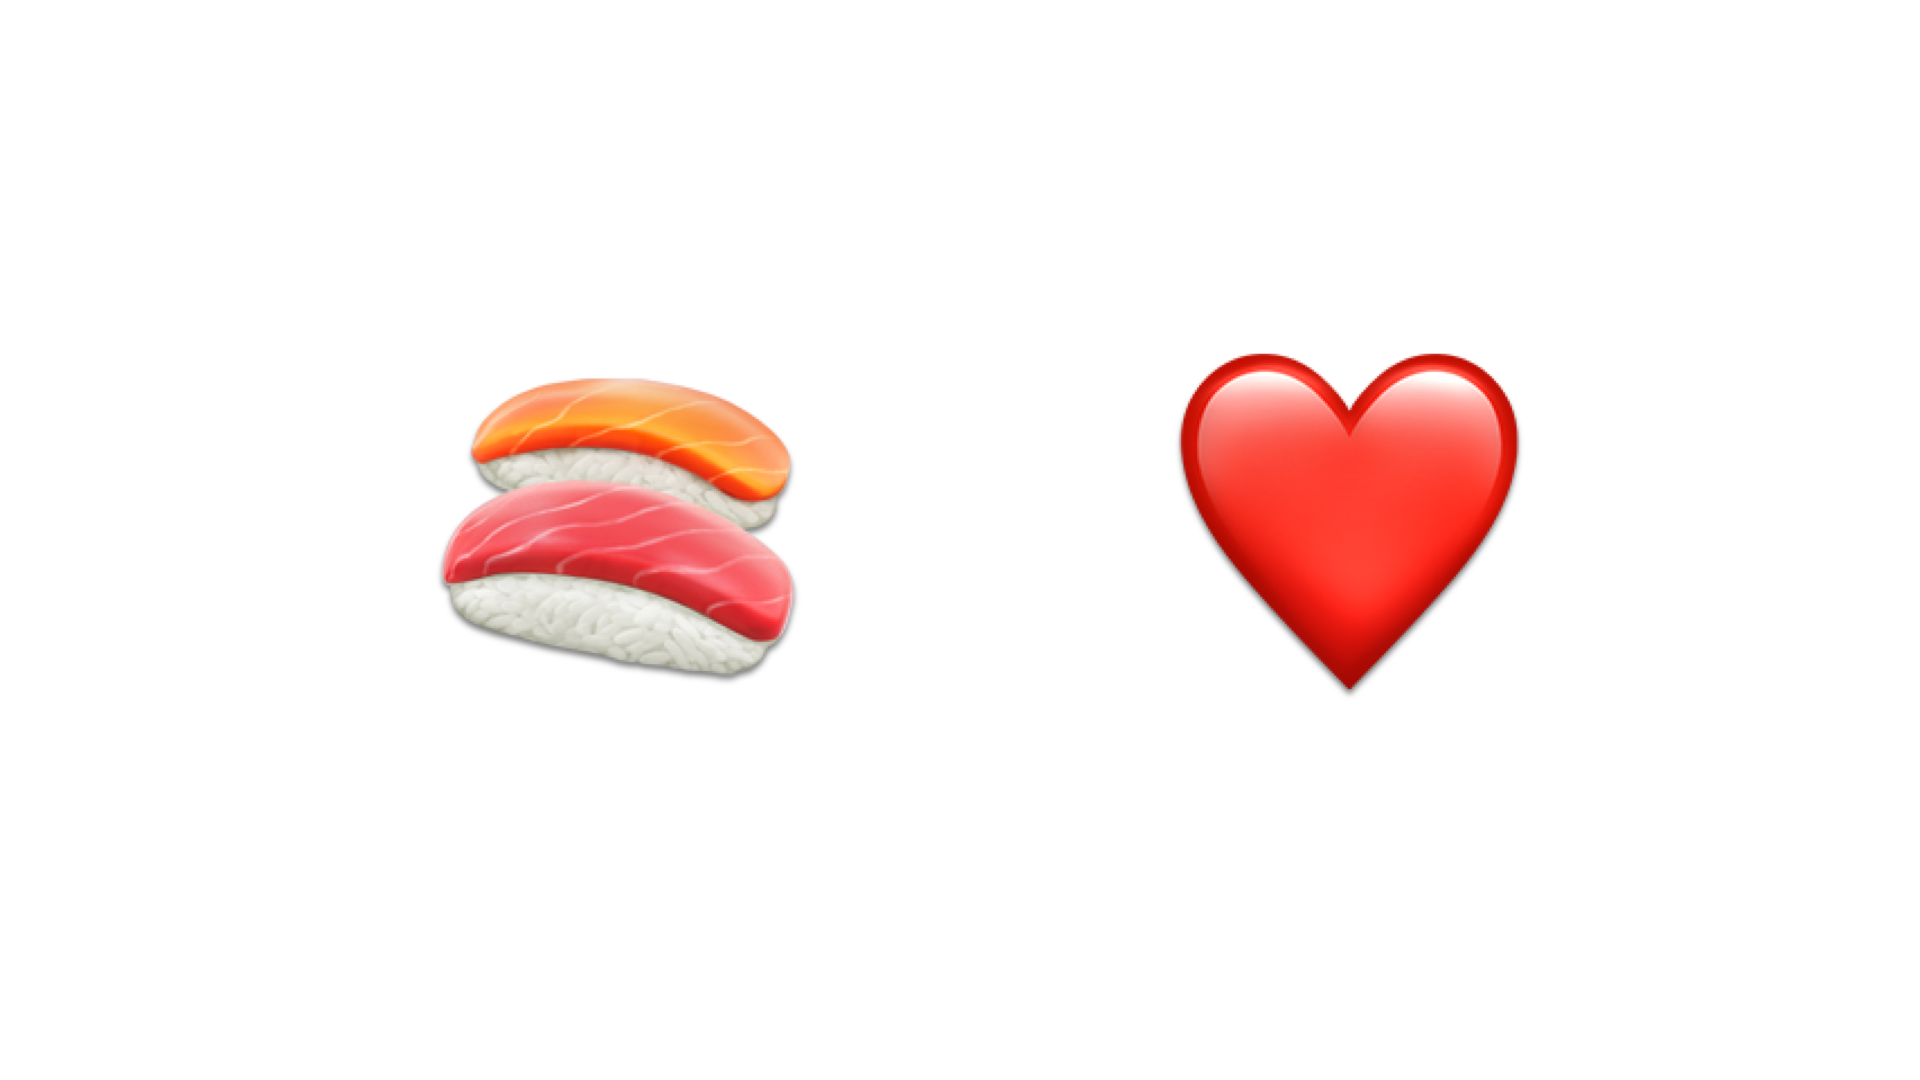
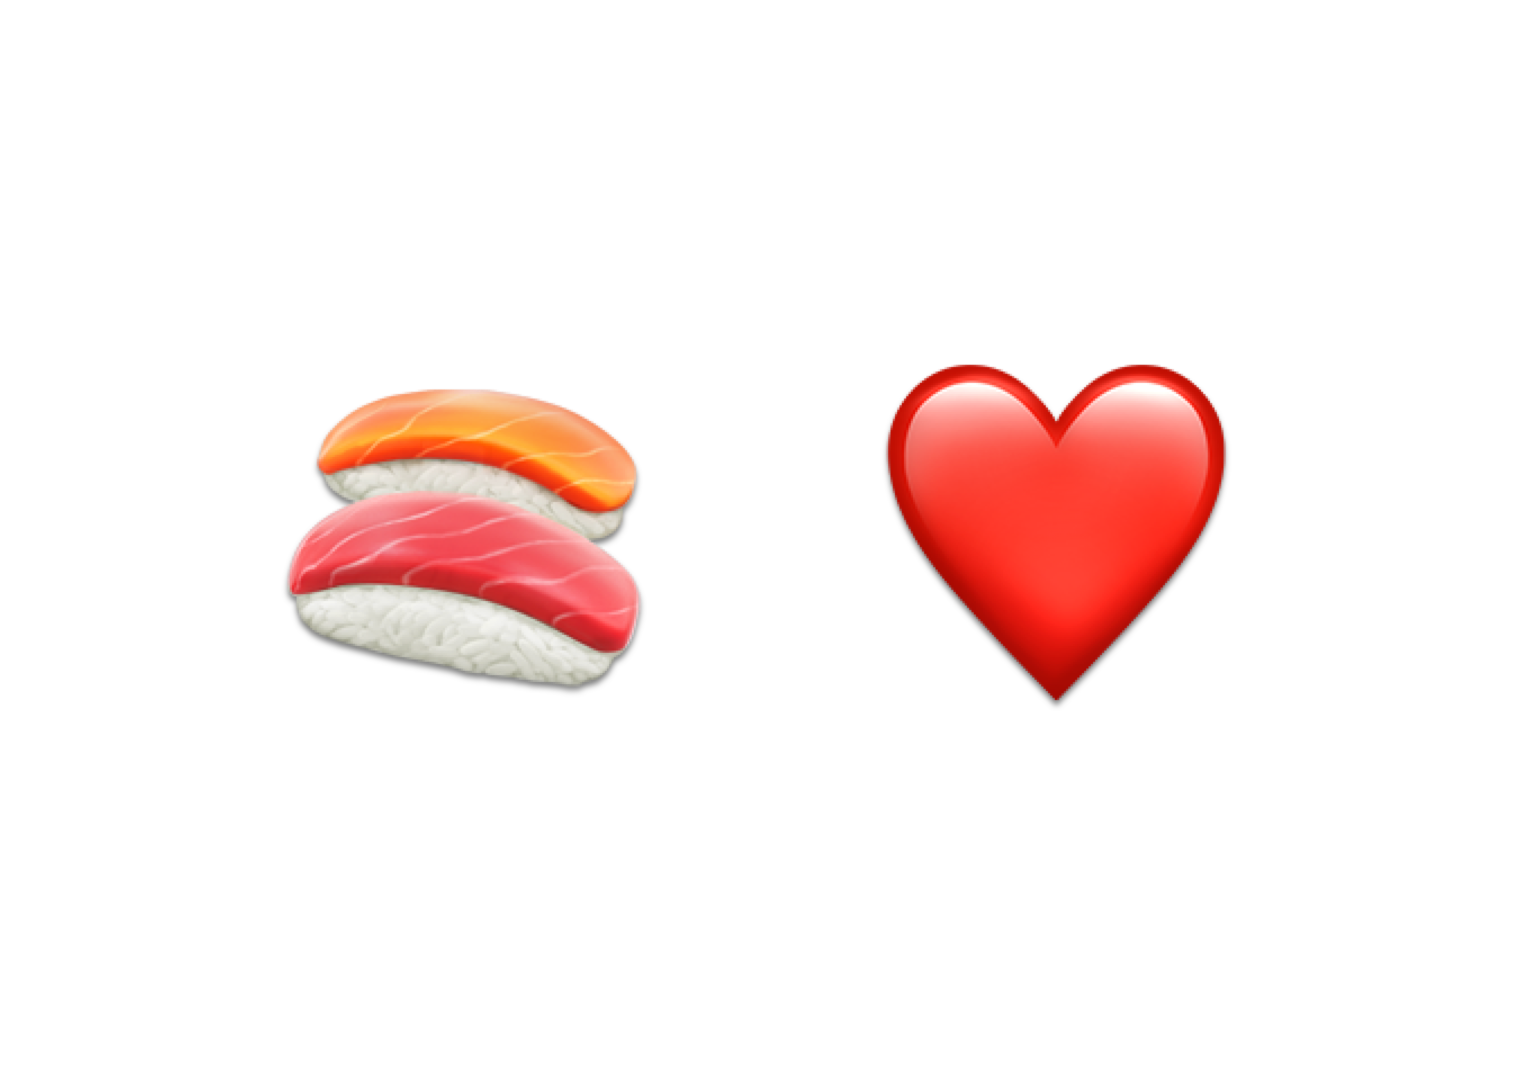
🍣 로고 수정

Changed region(s): [[0.1855, 0.3361, 0.4329, 0.6417], [0.5566, 0.3056, 0.8039, 0.6722]]

diff --git a/README.md b/README.md
@@ -1,5 +1,5 @@
 <h1 align="center">
-    <img height="250" src="/awesome-sushi.png" />
+    <img width="380" src="/awesome-sushi.png" />
     <br> Awesome Sushi
 </h1>
 
